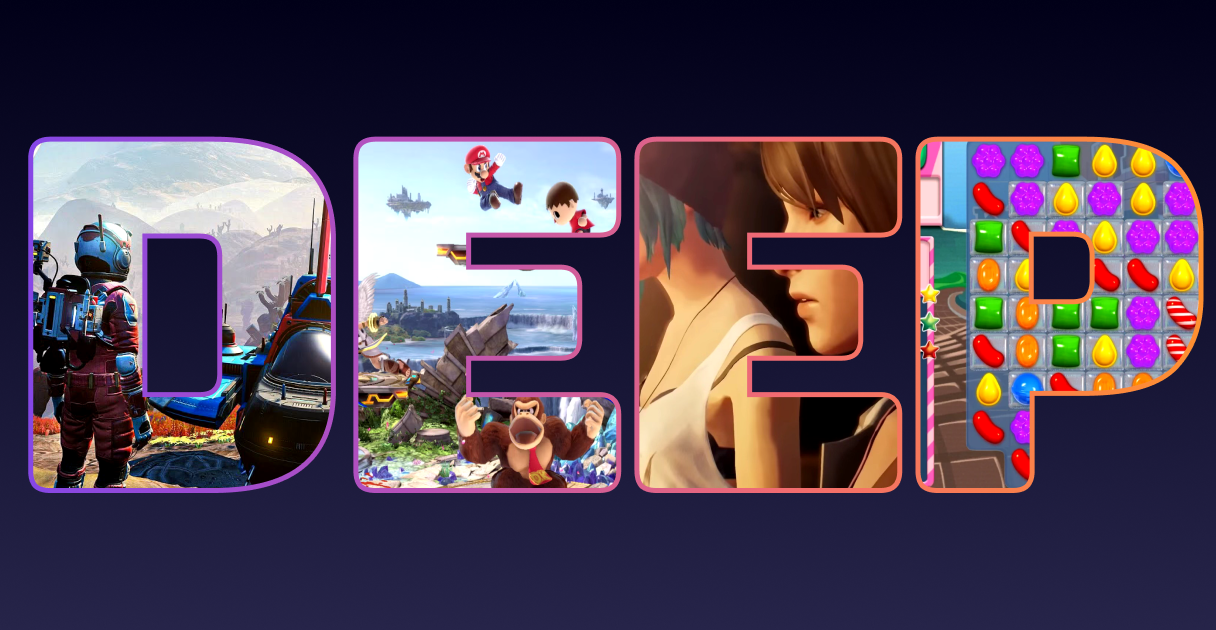
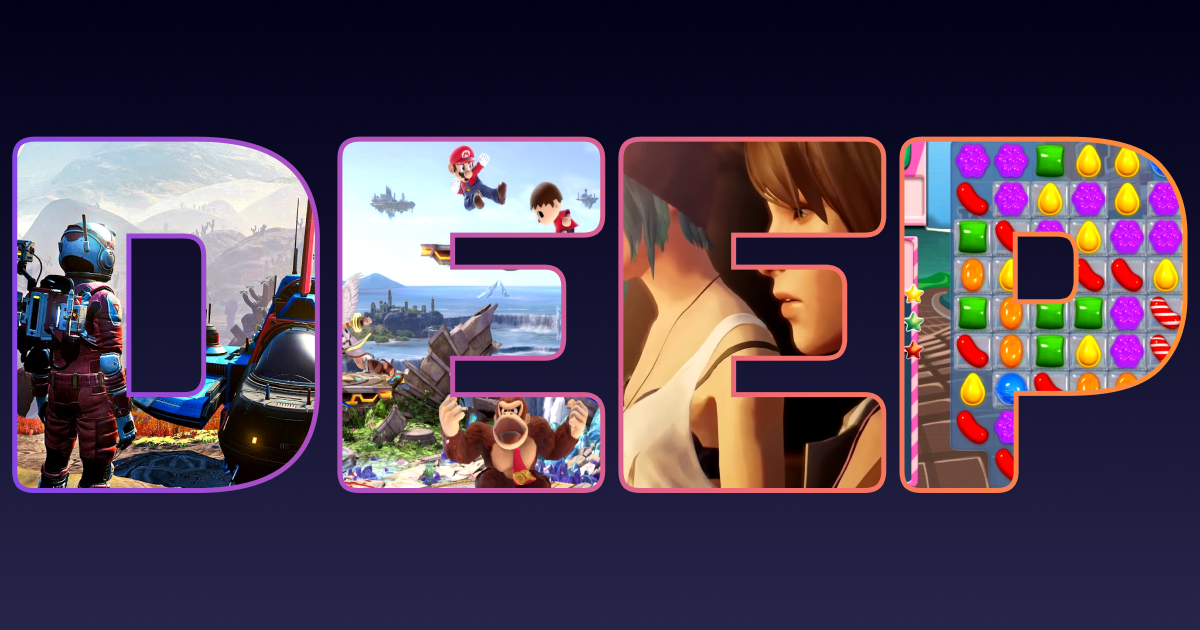
opengraph added in metadata + 1200*630 image size set

Changed region(s): [[0.0, 0.2111, 0.9867, 0.7841], [0.3392, 0.3619, 0.4008, 0.4222]]

diff --git a/app/layout.js b/app/layout.js
@@ -7,6 +7,19 @@ import "./globals.css";
 export const metadata = {
   title: "Deep",
   description: "Deep is a project that aims to help you understand your personality and habits through a series of questions based on gaming preferences.",
+  openGraph: {
+    title: 'Deep',
+    description: 'Deep is a project that aims to help you understand your personality and habits through a series of questions based on gaming preferences.',
+    url: 'https://www.the-deepmodel.fr/',
+    images: [
+      {
+        url: '/opengraph-image.png',
+        width: 1200,
+        height: 630,
+        alt: 'thumbail',
+      },
+    ],
+  },
 };
 
 // other possible bg colors: from-[#101419] to-[#101419e4]
